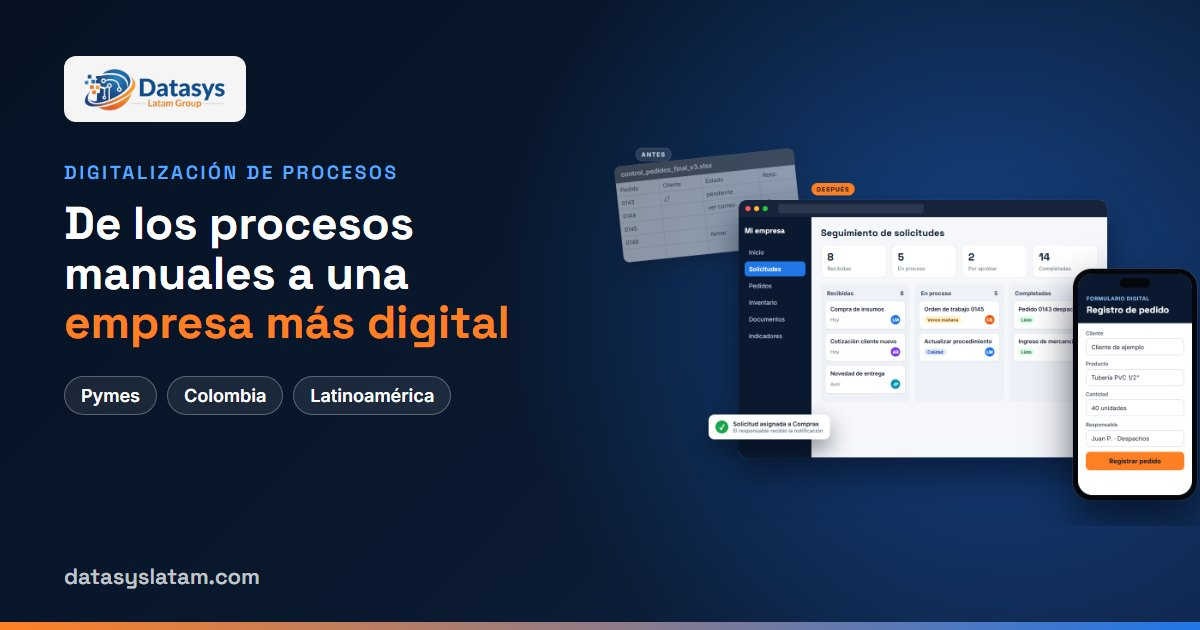
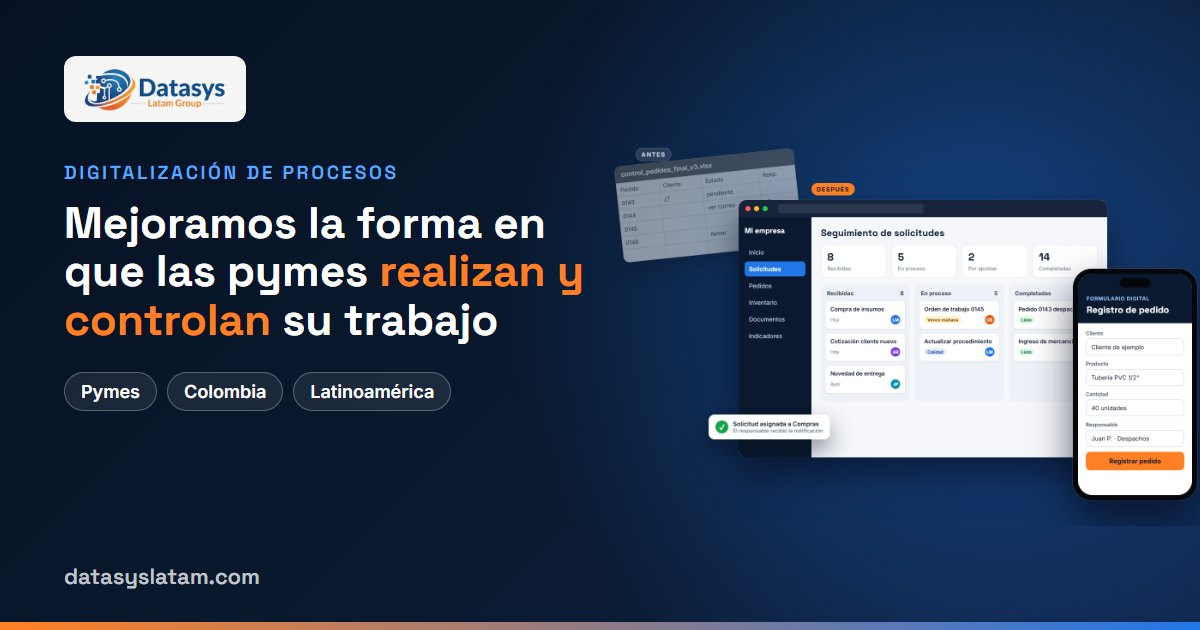
feat(digitalizacion): titular centrado en el problema y diagnóstico como captación
- Nuevo H1: «Mejoramos la forma en que las pymes realizan y controlan su
  trabajo»; el texto de apoyo parte del problema operativo y presenta el
  diagnóstico como primer paso. La imagen para compartir usa el mismo
  titular.
- Sección nueva «Todo empieza con un diagnóstico de sus procesos» tras las
  preguntas de identificación: qué recibe la pyme (conversación, tareas
  manuales identificadas, propuesta con alcance, etapas y plazos, sin
  compromiso) y botones al formulario y a WhatsApp.
- El formulario de esta página se presenta como «Solicite su diagnóstico
  de procesos».

La franja de llamado a la acción admite antetítulo y puntos, y
ContactSection admite título y texto propios; ambos son opcionales.

Changed region(s): [[0.0308, 0.3317, 0.4933, 0.6635]]

diff --git a/src/landing/pages.ts b/src/landing/pages.ts
@@ -145,8 +145,8 @@ export type LandingSection =
       reverse?: boolean;
       link?: { label: string; href: string };
     }
-  /** Franja de llamado a la acción: el botón principal lleva al formulario y el secundario a WhatsApp. */
-  | { kind: "cta"; id: string; title: string; text: string; primary: string; secondary: string }
+  /** Franja de llamado a la acción: el botón principal lleva al formulario y el secundario a WhatsApp. `points` resume lo que recibe el visitante. */
+  | { kind: "cta"; id: string; eyebrow?: string; title: string; text: string; points?: string[]; primary: string; secondary: string }
   | {
       kind: "profile";
       id: string;
@@ -204,6 +204,9 @@ export interface LandingPage {
   leadAskPhone?: boolean;
   /** Texto del botón de envío del formulario. Por defecto, «Solicitar asesoría». */
   leadSubmitLabel?: string;
+  /** Título y texto junto al formulario. Por defecto, «¿Tiene en mente un desafío tecnológico?». */
+  leadTitle?: string;
+  leadText?: string;
   breadcrumb: string;
   schema:
     | { type: "Service"; name: string; serviceType: string; offers?: { name: string; description: string }[] }
@@ -871,8 +874,8 @@ export const LANDING_PAGES: LandingPage[] = [
       height: 630,
     },
     eyebrow: "Digitalización de procesos para pymes",
-    h1: "De los procesos manuales a una empresa más digital y eficiente",
-    lead: "Digitalizamos los procesos de su empresa para reducir tareas repetitivas, organizar la información y mejorar el control de sus operaciones. Soluciones tecnológicas pensadas para las necesidades de las pymes.",
+    h1: "Mejoramos la forma en que las pymes realizan y controlan su trabajo",
+    lead: "Le ayudamos a reducir las tareas repetitivas, organizar la información y saber qué pasa en su operación. Empezamos por un diagnóstico de sus procesos y, con base en él, le proponemos la solución adecuada para su empresa.",
     heroImage: gestion,
     heroImageAlt: "Hoja de cálculo de pedidos que pasa a una plataforma web de seguimiento de solicitudes y a un formulario digital en el celular",
     heroMockup: digitalizacionProcesos,
@@ -885,6 +888,8 @@ export const LANDING_PAGES: LandingPage[] = [
     leadNeeds: ["Administrativos", "Comerciales", "Operativos", "Inventarios y compras", "Gestión documental y calidad", "Otro"],
     leadAskPhone: true,
     leadSubmitLabel: "Solicitar diagnóstico",
+    leadTitle: "Solicite su diagnóstico de procesos",
+    leadText: "Cuéntenos qué proceso le quita más tiempo a su equipo. Le contactamos para conocer cómo opera su empresa y, después, le presentamos una propuesta con la solución, el alcance, las etapas y los plazos, sin compromiso.",
     breadcrumb: "Digitalización de procesos",
     schema: {
       type: "Service",
@@ -914,6 +919,21 @@ export const LANDING_PAGES: LandingPage[] = [
           "¿Si alguien clave se ausenta, nadie sabe en qué va un pedido o un trámite?",
         ],
         closing: "Estos problemas no necesariamente requieren más personal o más trabajo. Muchas veces necesitan procesos mejor organizados y herramientas digitales adecuadas.",
+      },
+      {
+        kind: "cta",
+        id: "diagnostico",
+        eyebrow: "El primer paso",
+        title: "Todo empieza con un diagnóstico de sus procesos",
+        text: "Antes de hablar de tecnología, conocemos su operación: cómo trabaja su equipo, dónde se pierde el tiempo y qué le impide tener el control. Con eso le proponemos una solución con un alcance definido.",
+        points: [
+          "Conversación sobre cómo opera su empresa",
+          "Tareas manuales y cuellos de botella identificados",
+          "Propuesta con solución, alcance, etapas y plazos",
+          "Sin compromiso comercial",
+        ],
+        primary: "Solicitar diagnóstico de procesos",
+        secondary: "Hablar con un asesor",
       },
       {
         kind: "services",

diff --git a/src/pages/LandingPage.tsx b/src/pages/LandingPage.tsx
@@ -303,10 +303,21 @@ const Section = ({ section, index, whatsappText }: { section: LandingSection; in
           <div className="pointer-events-none absolute -right-24 -top-24 h-80 w-80 rounded-full bg-electric-500/25 blur-3xl" aria-hidden="true" />
           <div className="pointer-events-none absolute -bottom-32 -left-20 h-72 w-72 rounded-full bg-[#FF8024]/15 blur-3xl" aria-hidden="true" />
           <div className="container relative mx-auto max-w-3xl px-4 text-center">
+            {section.eyebrow && <p className="mb-3 text-sm font-semibold uppercase tracking-[0.18em] text-[#FF8024]">{section.eyebrow}</p>}
             <h2 id={`${section.id}-titulo`} className="mb-4 font-heading text-2xl font-bold md:text-4xl">
               {section.title}
             </h2>
             <p className="mx-auto mb-8 max-w-2xl text-base leading-relaxed text-white/80 md:text-lg">{section.text}</p>
+            {section.points && (
+              <ul className="mb-8 grid gap-2.5 text-left sm:grid-cols-2">
+                {section.points.map((point) => (
+                  <li key={point} className="flex items-start gap-2.5 rounded-xl border border-white/15 bg-white/5 px-4 py-3 text-sm text-white/90">
+                    <CheckCircle2 className="mt-0.5 h-4 w-4 shrink-0 text-[#FF8024]" aria-hidden="true" />
+                    <span>{point}</span>
+                  </li>
+                ))}
+              </ul>
+            )}
             <div className="flex flex-wrap justify-center gap-3">
               <a href="#contacto" className={`${heroBtnOrange} btn-shine`}>
                 {section.primary}
@@ -604,6 +615,8 @@ const LandingPage = ({ page }: { page: LandingData }) => (
       needLabel={page.leadNeedsLabel}
       askPhone={page.leadAskPhone}
       submitLabel={page.leadSubmitLabel}
+      asideTitle={page.leadTitle}
+      asideText={page.leadText}
     />
 
     <script type="application/ld+json" dangerouslySetInnerHTML={{ __html: JSON.stringify(landingJsonLd(page)) }} />

diff --git a/src/components/ContactSection.tsx b/src/components/ContactSection.tsx
@@ -19,12 +19,16 @@ const ContactSection = ({
   needLabel = "¿Qué necesita?",
   askPhone = false,
   submitLabel = "Solicitar asesoría",
+  asideTitle = "¿Tiene en mente un desafío tecnológico?",
+  asideText = "Cuéntenos qué necesita transformar. Nuestro equipo puede ayudarle a convertir su necesidad empresarial en una solución tecnológica que genere resultados positivos.",
 }: {
   subject?: string;
   needOptions?: string[];
   needLabel?: string;
   askPhone?: boolean;
   submitLabel?: string;
+  asideTitle?: string;
+  asideText?: string;
 }) => {
   const [submitted,   setSubmitted]   = useState(false);
   const [isSubmitting, setIsSubmitting] = useState(false);
@@ -154,12 +158,8 @@ const ContactSection = ({
             className="lg:col-span-2 flex flex-col gap-5"
           >
             <div className="flex flex-col gap-5">
-              <h3 className="text-2xl font-bold text-white">
-                ¿Tiene en mente un desafío tecnológico?
-              </h3>
-              <p className="text-sm leading-relaxed text-white/70">
-                Cuéntenos qué necesita transformar. Nuestro equipo puede ayudarle a convertir su necesidad empresarial en una solución tecnológica que genere resultados positivos.
-              </p>
+              <h3 className="text-2xl font-bold text-white">{asideTitle}</h3>
+              <p className="text-sm leading-relaxed text-white/70">{asideText}</p>
             </div>
           </motion.div>
 
